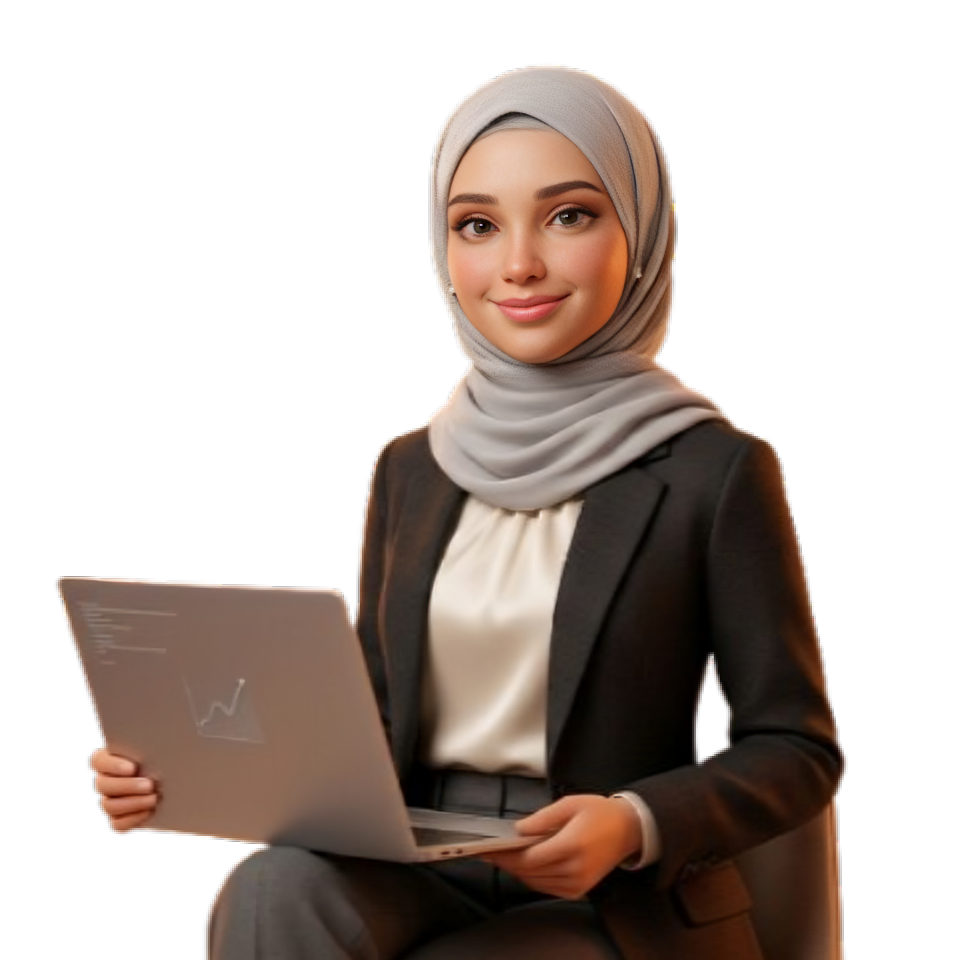
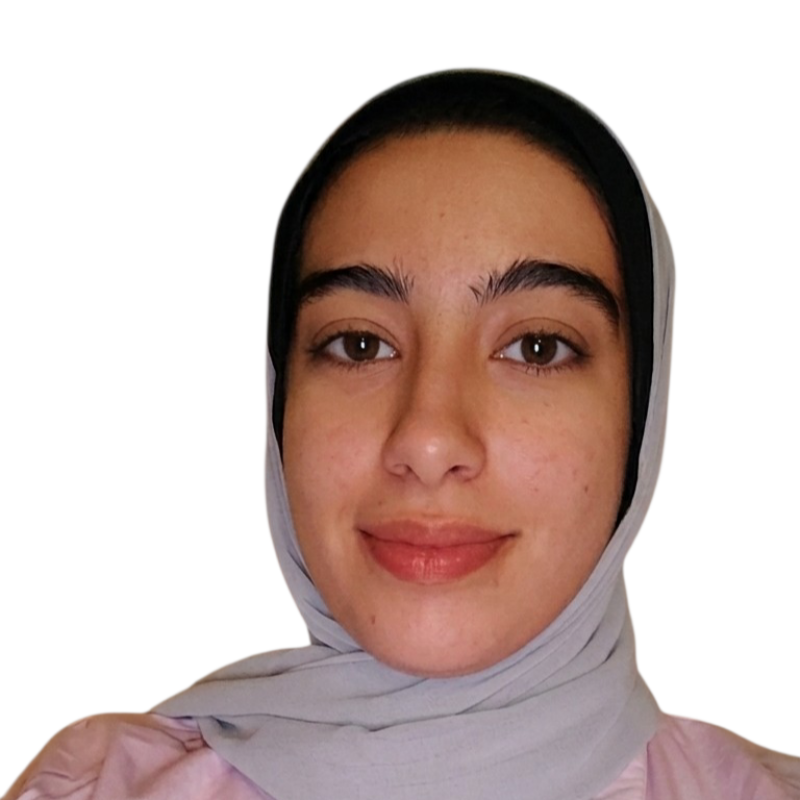
adding projects

diff --git a/js/main.js b/js/main.js
@@ -18,10 +18,7 @@ window.onscroll = () => {
     }
   });
 };
-// menuIcon.onclick = () => {
-//     menuIcon.classList.toggle("fa-bars");
-//     navBar.classList.toggle("active");
-// }
+
 const navbarToggle = document.querySelector(".navbar-toggle");
 const navbar = document.querySelector(".nav-bar");
 
@@ -30,47 +27,56 @@ navbarToggle.addEventListener("click", () => {
   navbar.classList.toggle("active");
 });
 
-// const sendEmail = (e) => {
-//   e.preventDefault(); // لمنع الصفحة من التحديث عند الضغط على الزر
+const typedText = document.querySelector(".text-animation span");
 
-//   // سحب البيانات من الحقول (تأكدي أن الـ ID مطابق لما في الـ HTML)
-//   const params = {
-//     full_name: document.getElementById("full_name").value,
-//     email: document.getElementById("email").value,
-//     phone_number: document.getElementById("phone_number").value,
-//     message: document.getElementById("message").value,
-//   };
+if (typedText) {
+  const words = ["WEB DEVELOPER", "FRONT-END DEVELOPER"];
+  let wordIndex = 0;
+  let charIndex = 0;
+  let deleting = false;
 
-//   const serviceID = "service_75pdwq8"; // تجدينه في Email Services
-//   const templateID = "template_44lshiu"; // تجدينه في Email Templates
+  const typeLoop = () => {
+    const currentWord = words[wordIndex];
 
-//   emailjs.send(serviceID, templateID, params)
-//     .then(res => {
-//         // إذا نجح الاختبار
-//         alert("تم الإرسال بنجاح! تفحصي بريدك الآن.");
-//         console.log(res);
-//     })
-//     .catch(err => {
-//         // إذا فشل (سيظهر لكِ السبب في الـ Console)
-//         console.error("فشل الإرسال:", err);
-//     });
-// };
+    if (!deleting) {
+      charIndex++;
+      typedText.textContent = currentWord.slice(0, charIndex);
+
+      if (charIndex === currentWord.length) {
+        deleting = true;
+        setTimeout(typeLoop, 1200);
+        return;
+      }
+    } else {
+      charIndex--;
+      typedText.textContent = currentWord.slice(0, charIndex);
+
+      if (charIndex === 0) {
+        deleting = false;
+        wordIndex = (wordIndex + 1) % words.length;
+      }
+    }
+
+    const speed = deleting ? 90 : 150;
+    setTimeout(typeLoop, speed);
+  };
+
+  typeLoop();
+}
+
 const sendEmail = (e) => {
   e.preventDefault(); 
 
-  // 1. سحب البيانات
   const full_name = document.getElementById("full_name").value.trim();
   const email = document.getElementById("email").value.trim();
   const phone_number = document.getElementById("phone_number").value.trim();
   const message = document.getElementById("message").value.trim();
 
-  // 2. التحقق من أن الحقول ليست فارغة
   if (full_name === "" || email === "" || phone_number === "" || message === "") {
-    alert("يرجى ملء جميع الحقول المطلوبة قبل الإرسال!");
-    return; // التوقف عن الإكمال في حال وجود حقل فارغ
+    alert("please fill in all fields before sending the message.");
+    return; 
   }
 
-  // 3. إكمال عملية الإرسال إذا كانت البيانات موجودة
   const params = {
     full_name: full_name,
     email: email,
@@ -83,13 +89,10 @@ const sendEmail = (e) => {
 
   emailjs.send(serviceID, templateID, params)
     .then(res => {
-        alert("تم الإرسال بنجاح!");
+        alert("Message sent successfully!");
         document.querySelector("form").reset();
     })
     .catch(err => {
-        console.error("فشل الإرسال:", err);
+        console.error("Failed to send message:", err);
     });
 };
-// function changeMode() {
-//   document.body.classList.toggle("light-mode");
-// }

diff --git a/index.html b/index.html
@@ -14,7 +14,7 @@
     ></script>
     <script type="text/javascript">
       (function () {
-        emailjs.init("M_F6gw-d0bHzr1SEV"); // ضعي هنا الـ Public Key الخاص بكِ من إعدادات الحساب
+        emailjs.init("M_F6gw-d0bHzr1SEV"); 
       })();
     </script>
   </head>
@@ -214,9 +214,8 @@
             <div class="card-body">
               <h2 class="card-title">e-commerce flower shop</h2>
               <p class="card-text">
-                Responsive e-commerce website for browsing and exploring flower
-                products with a clean user interface. Built using HTML, CSS, and
-                JavaScript.
+                Responsive flower e-commerce website built with HTML, CSS, and JavaScript.
+
               </p>
               <a
                 href="https://farah-barzaq.github.io/e-commerce-flower-shop/"
@@ -235,9 +234,8 @@
             <div class="card-body">
               <h2 class="card-title">mobilze</h2>
               <p class="card-text">
-                Responsive website focused on mobile services with a simple,
-                modern layout and smooth user experience. Built using HTML, CSS,
-                and JavaScript.
+                Responsive mobile services website built with HTML, CSS, and JavaScript.
+
               </p>
               <a
                 href="https://farah-barzaq.github.io/mobilze-website/"
@@ -256,9 +254,7 @@
             <div class="card-body">
               <h2 class="card-title">B-Smile</h2>
               <p class="card-text">
-                Responsive website for a dental clinic showcasing services and
-                providing a clean, professional user experience. Built using
-                HTML, CSS, and JavaScript.
+            Responsive dental clinic website built with HTML, CSS, and JavaScript.
               </p>
               <a
                 href="https://farah-barzaq.github.io/B-Smile-dental-clinic-website/"
@@ -268,6 +264,26 @@
               >
             </div>
           </div>
+          <div class="project-item card" style="width: 35rem">
+            <img
+              src="images/projects/project-4.png"
+              class="card-img-top"
+              alt="..."
+            />
+            <div class="card-body">
+              <h2 class="card-title">4beauty</h2>
+              <p class="card-text">
+               Responsive cosmetics and skincare e-commerce website built with HTML, CSS, JavaScript, and Local Storage.
+              </p>
+              <a
+                href="https://farah-barzaq.github.io/4beauty-ecommerce-website/index.html#slide-3"
+                class="btns"
+                target="_blank"
+                >live demo</a
+              >
+            </div>
+          </div>
+          
         </div>
       </div>
     </section>

diff --git a/css/style.css b/css/style.css
@@ -181,7 +181,7 @@ span {
     0 0 100px var(--main-color);
 }
 .home-content p {
-  font-size: 1.5rem;
+  font-size: 1.8rem;
   font-weight: 500;
   line-height: 1.8;
   max-width: 1000px;
@@ -248,79 +248,34 @@ span {
   font-size: 34px;
   font-weight: 600;
   min-width: 280px;
+  white-space: nowrap;
 }
 .text-animation span {
   position: relative;
-}
-.text-animation span::before {
-  content: "Web Developer";
+  display: inline-block;
+  min-width: 22ch;
   color: var(--main-color);
-  animation: words 20s infinite;
+  font-weight: 700;
 }
 .text-animation span::after {
   content: "";
-  background-color: var(--bg-color);
-  position: absolute;
-  width: calc(100% + 8px);
-  height: 100%;
-  border-left: 3px solid var(--bg-color);
-  right: -8px;
-  animation:
-    cursor 0.6s infinite,
-    typing 20s steps(14) infinite;
+  display: inline-block;
+  width: 2px;
+  height: 1em;
+  margin-left: 6px;
+  vertical-align: middle;
+  background-color: var(--main-color);
+  animation: cursor 0.8s steps(1) infinite;
 }
 @keyframes cursor {
-  to {
-    border-left: 2px solid var(--main-color);
-  }
-}
-@keyframes words {
   0%,
-  20% {
-    content: "web developer";
+  50% {
+    opacity: 1;
   }
-  21%,
-  40% {
-    content: "front-end ";
-  }
-  41%,
-  60% {
-    content: "web developer";
-  }
-  61%,
-  80% {
-    content: "front-end";
-  }
-  81%,
+
+  51%,
   100% {
-    content: "web developer";
-  }
-}
-
-@keyframes typing {
-  10%,
-  15%,
-  30%,
-  35%,
-  50%,
-  55%,
-  70%,
-  75%,
-  90%,
-  95% {
-    width: 0;
-  }
-
-  5%,
-  20%,
-  25%,
-  40%,
-  45%,
-  60%,
-  65%,
-  80%,
-  85% {
-    width: calc(100% + 8px);
+    opacity: 0;
   }
 }
 .heading {
@@ -330,14 +285,12 @@ span {
   position: relative;
   display: block;
   text-shadow: 0 0px 20px var(--main-color);
-  /* border-bottom: 1px solid var(--main-color); */
-  /* border-width: 10%; */
+  
 }
 
 .skills {
   /* padding: 100px 150px; */
   background-color: var(--second-bg-color);
-  padding: 12% 0;
 }
 
 .skills-items {
@@ -454,7 +407,7 @@ span {
   transition: 0.4s ease-in-out;
   cursor: pointer;
   /* padding: 4rem; */
-    display: flex;
+  display: flex;
   flex-direction: column;
   /* text-align: left; */
   max-height: fit-content;
@@ -509,7 +462,12 @@ span {
 .projects .wrapper {
   display: grid;
   grid-template-columns: repeat(3, 1fr);
-  gap: 1rem;
+  gap: 1.5rem;
+}
+@media (min-width: 768px) and (max-width: 1024px) {
+  .projects .wrapper {
+    grid-template-columns: repeat(2, 1fr);
+  }
 }
 .project-item {
   background-color: rgba(0, 0, 0, 0.7) !important;
